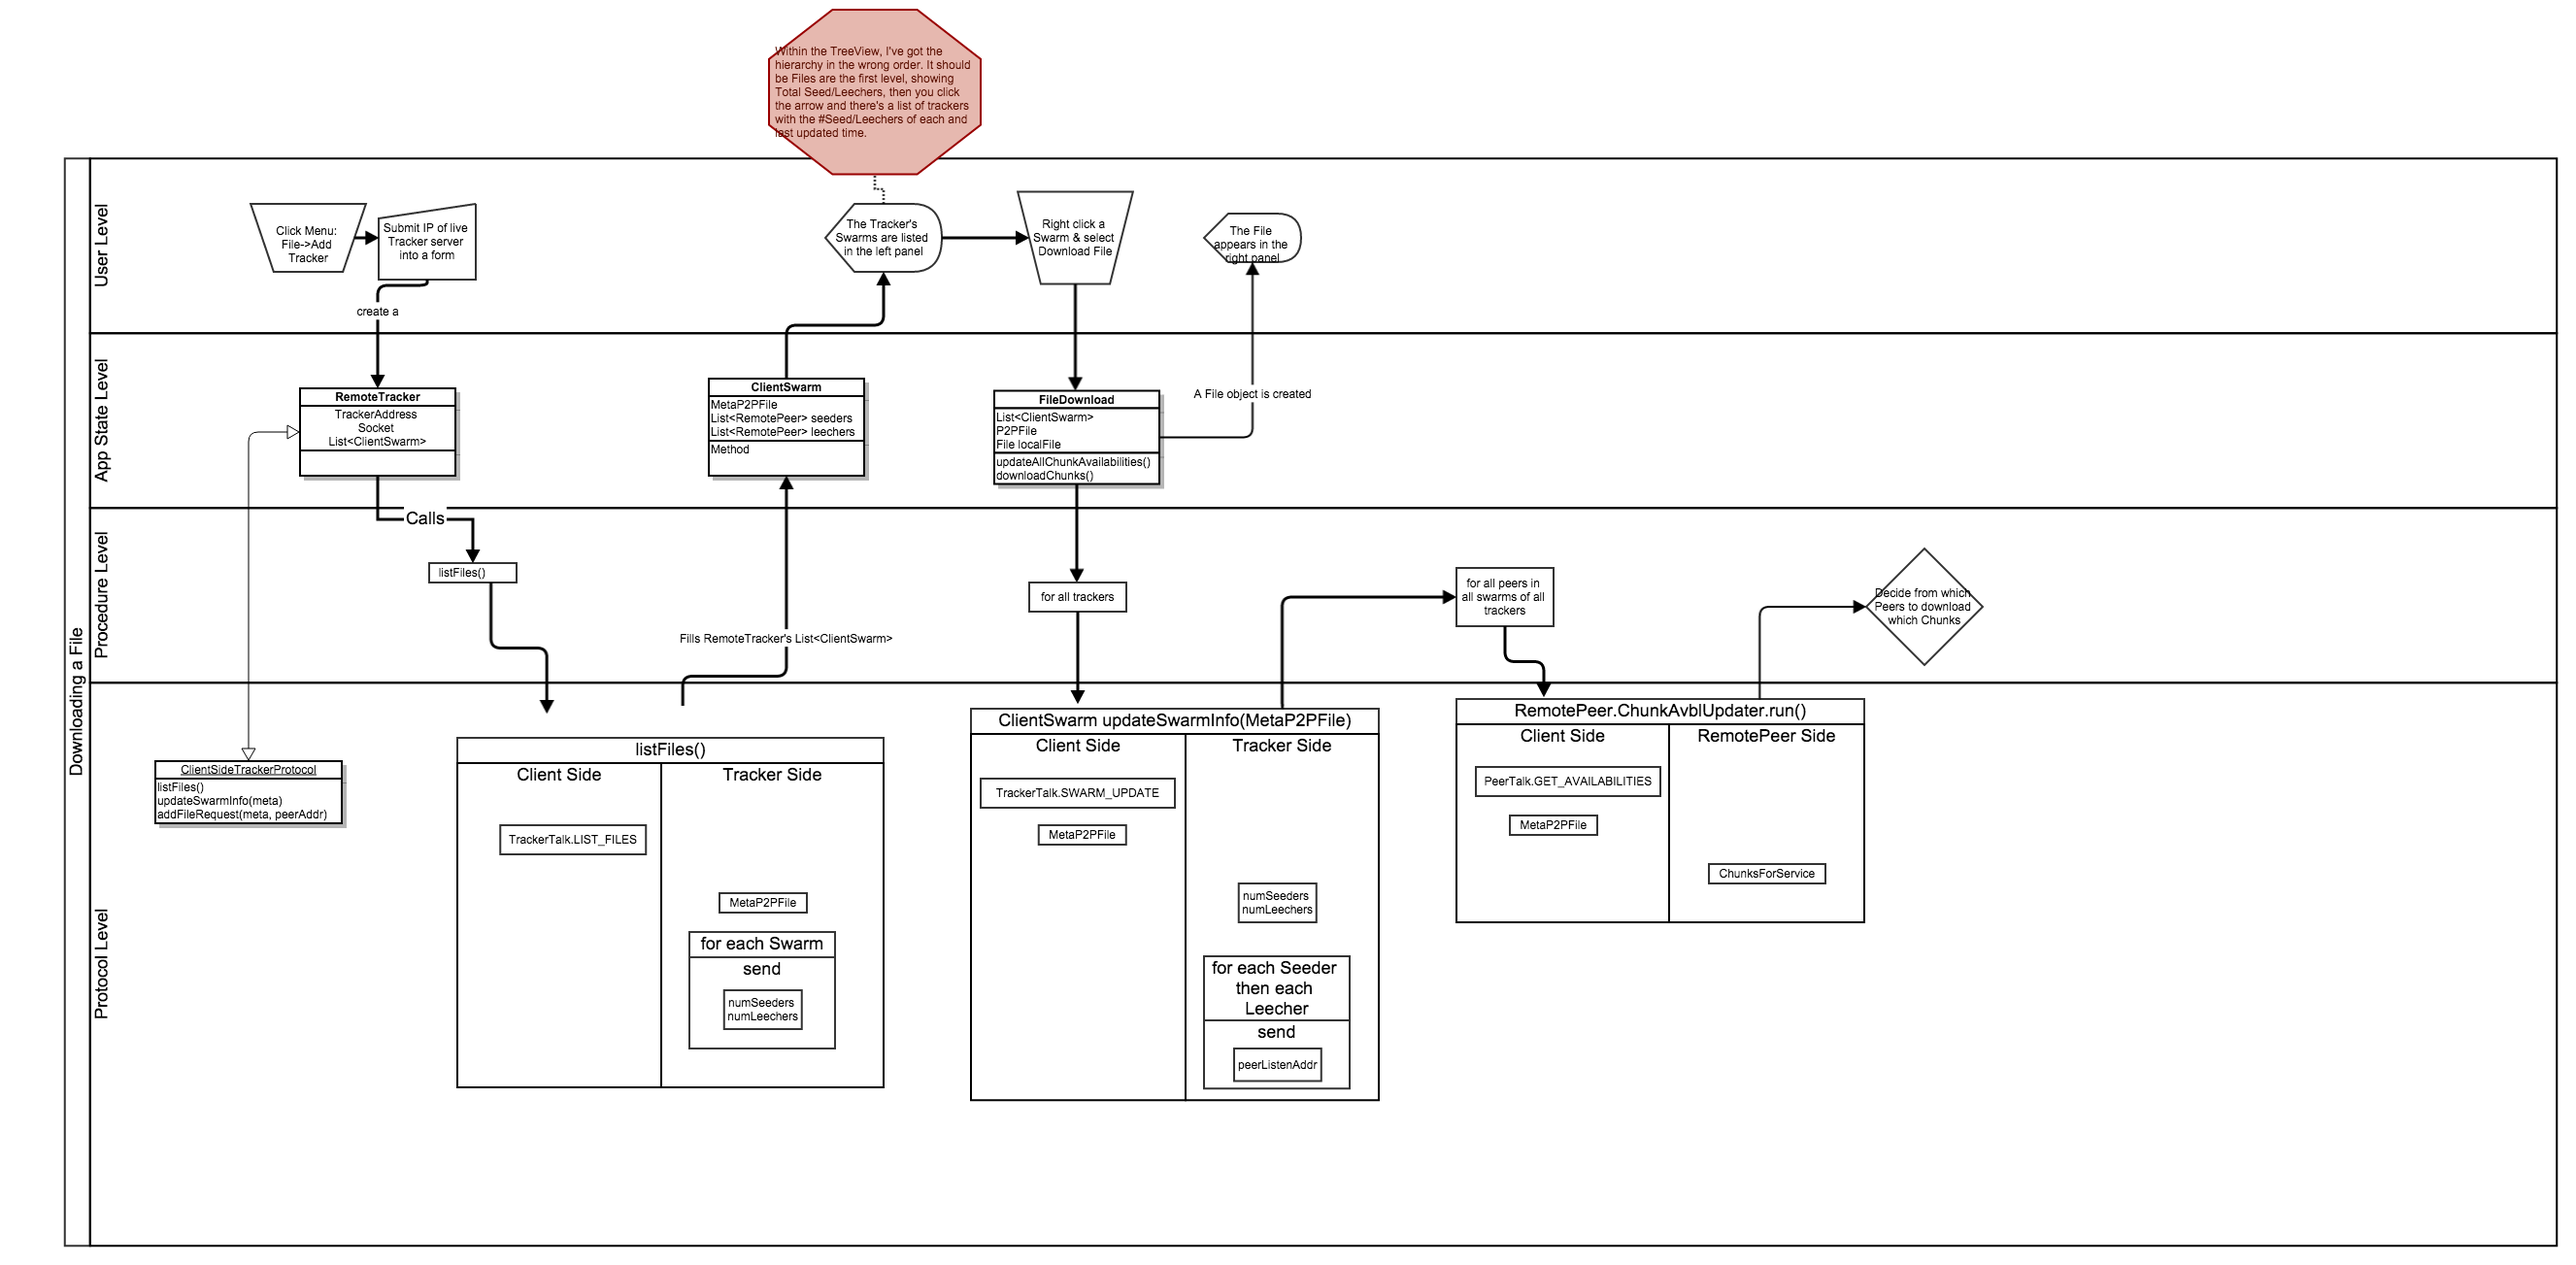
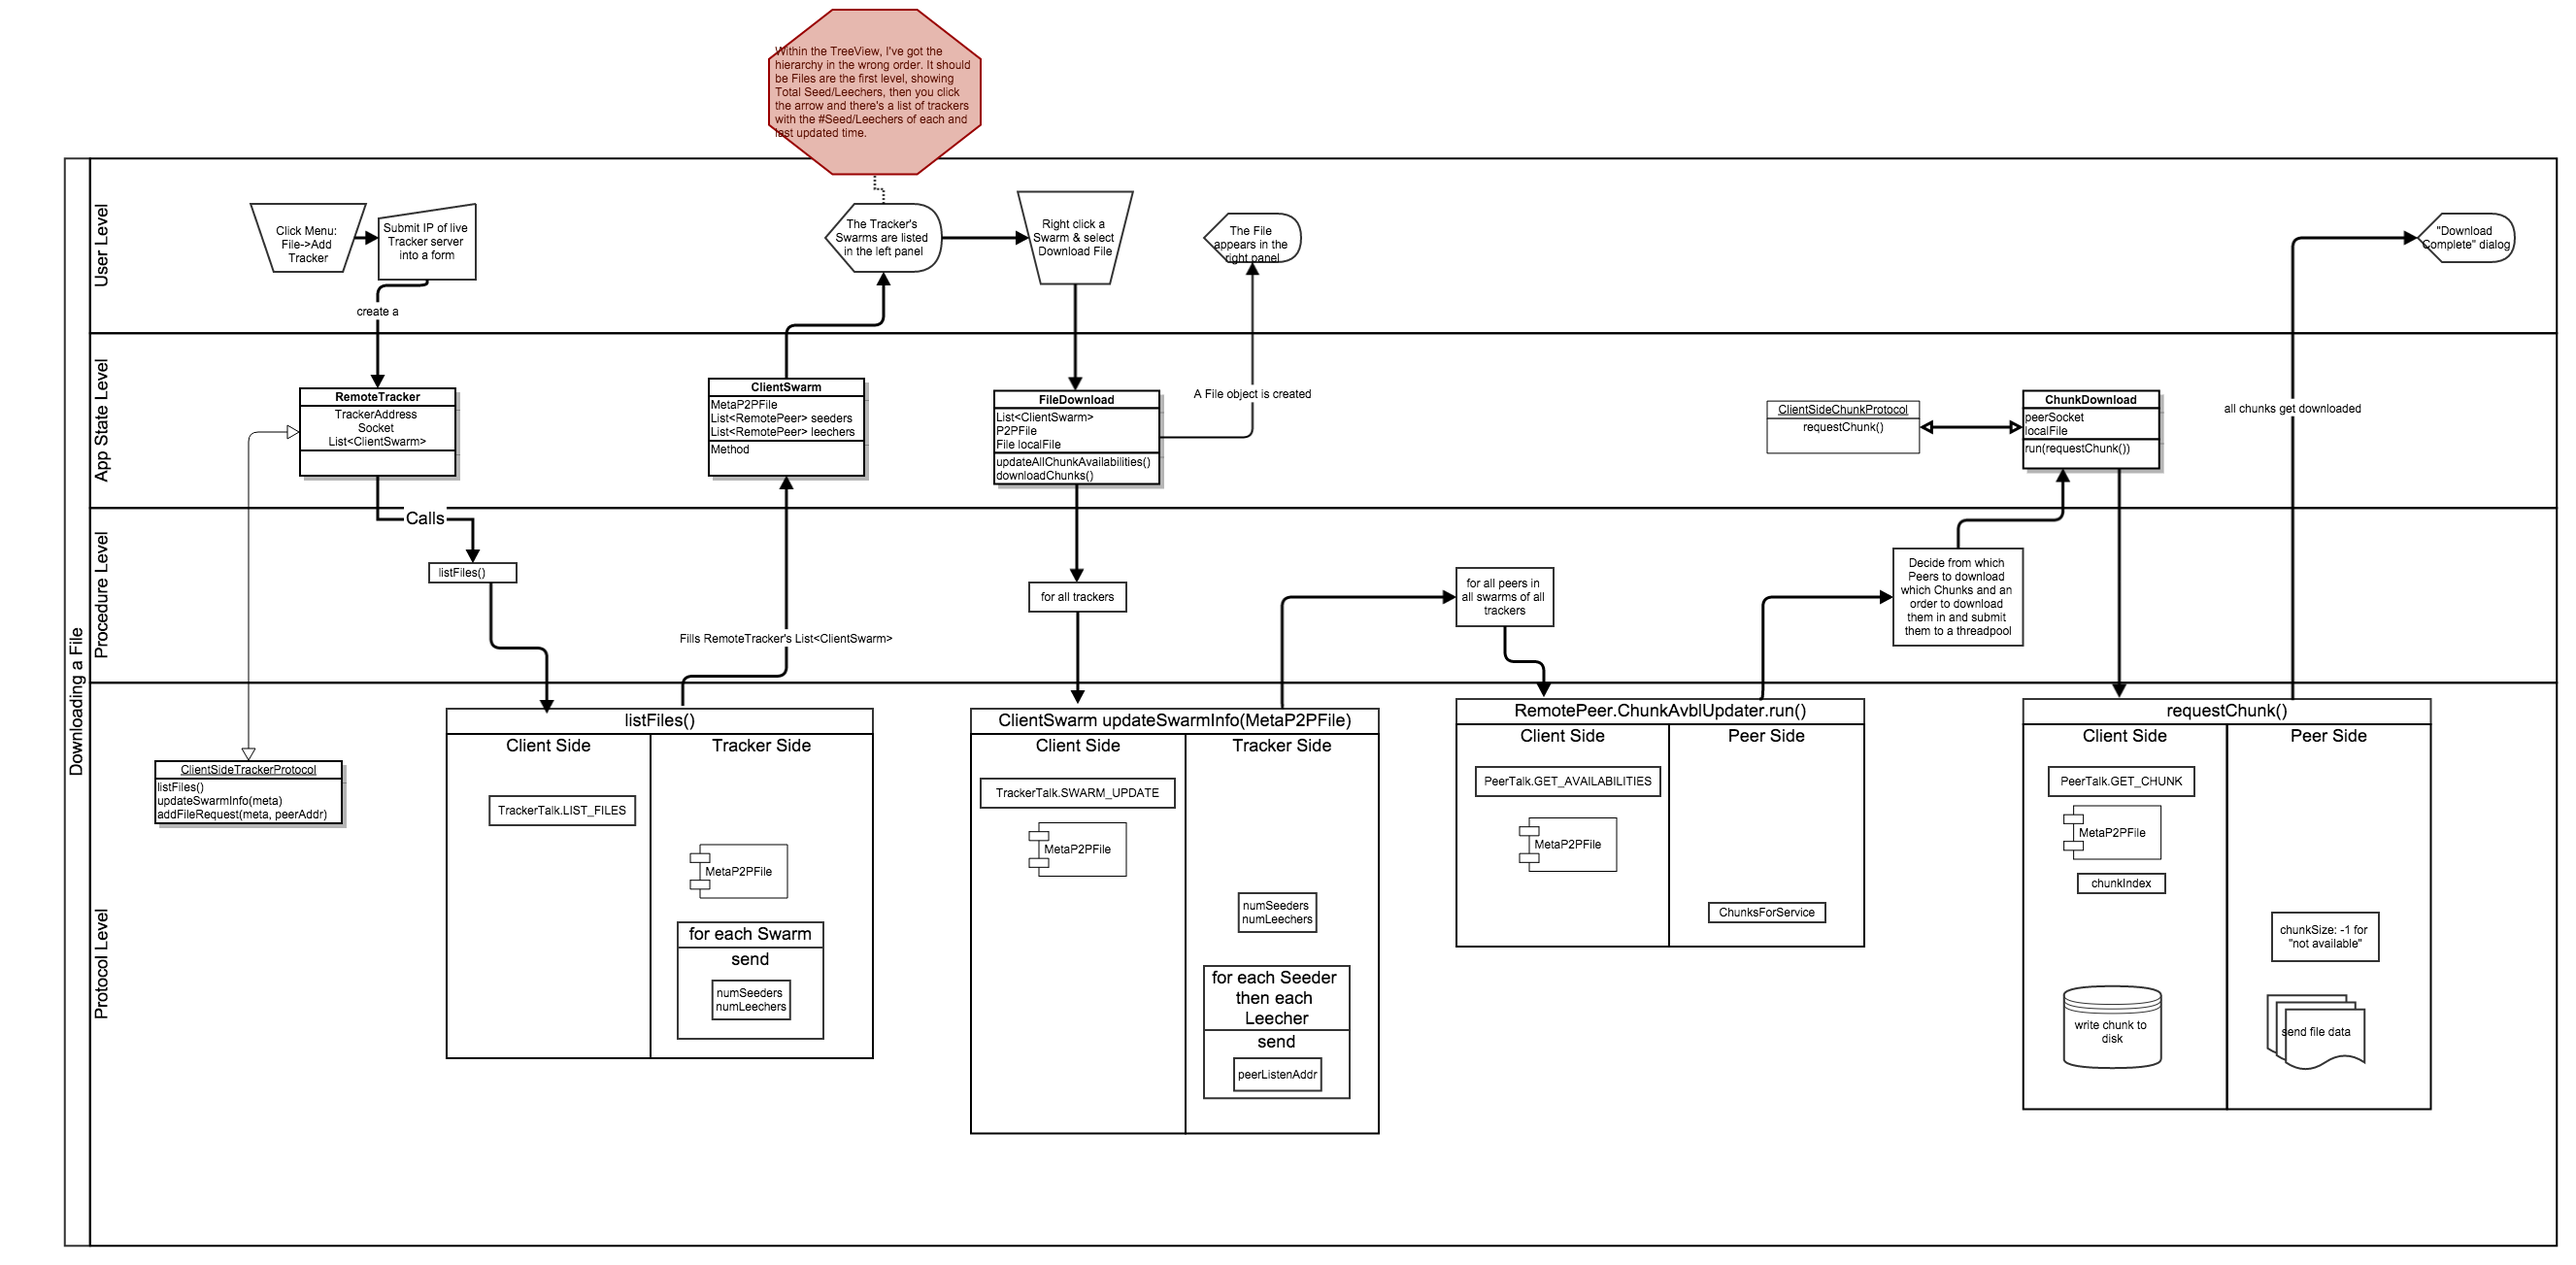
finish rough draft of download process

diff --git a/readme.md b/readme.md
@@ -19,8 +19,8 @@ latex footer:   mmd-memoir-footer
 
 ## How a Client downloads a File
 
-### Flowchart of the Process (in Progress)
-![Flowchart png](FileDl.png)
+### Flowchart of the Process (1st vrsn)
+![Flowchart png](FileDL.png)
 
 ### Relevant Fields
 
